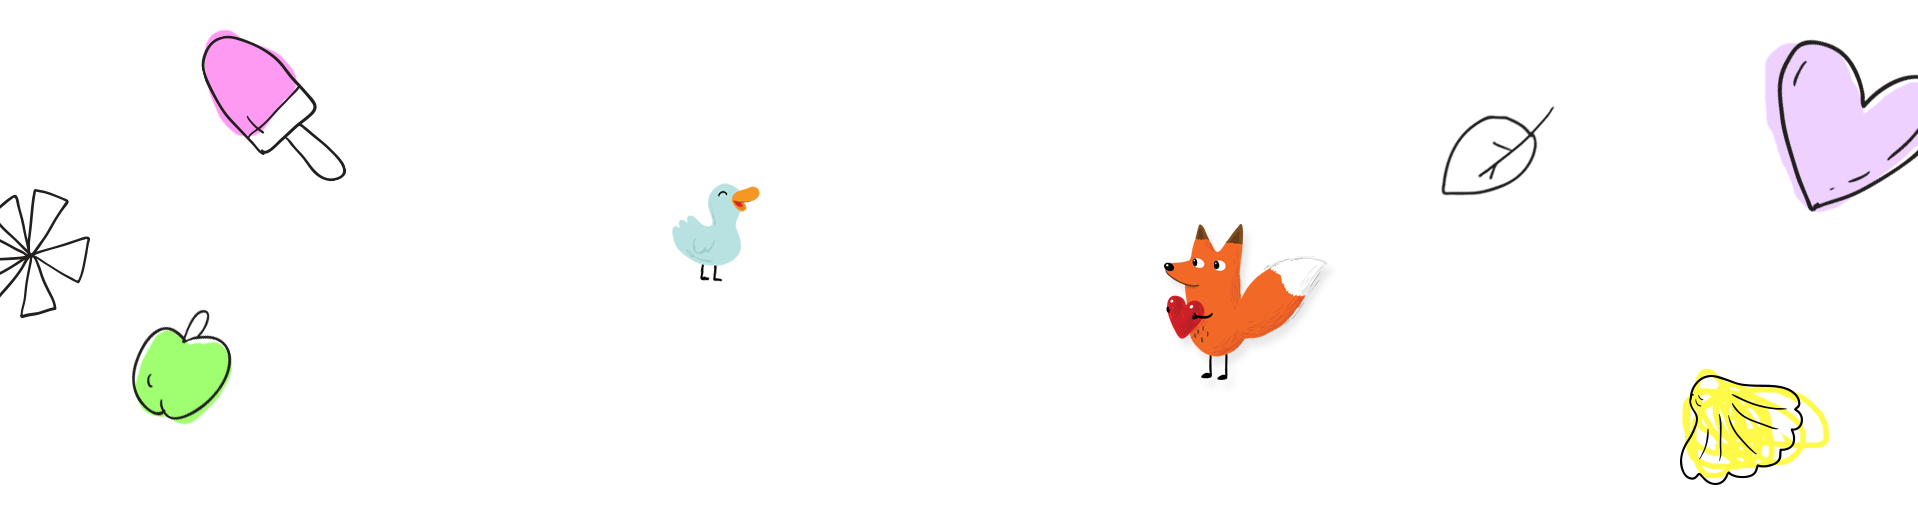
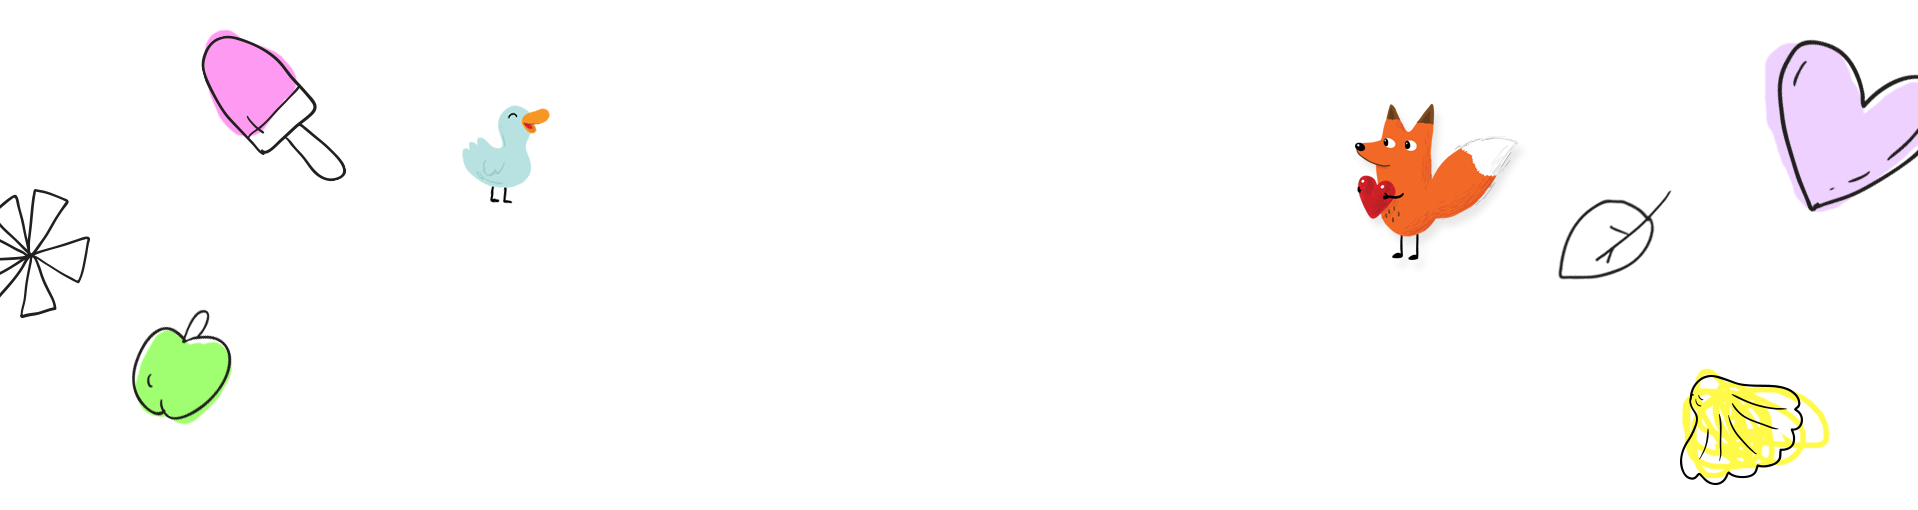
HP POSTER - fade obj gallery added

diff --git a/app/scss/hp-fullscreen.scss b/app/scss/hp-fullscreen.scss
@@ -58,8 +58,8 @@
       line-height: 52 px;
       font-weight: 600;
       border-radius: 12px;
-      background-color: rgba(255, 16, 130, 0.5);
-      box-shadow: 0px 2px 15px 2px rgba(255, 16, 130, 0.5);
+      // background-color: rgba(255, 16, 130, 0.5);
+      // box-shadow: 0px 2px 15px 2px rgba(255, 16, 130, 0.5);
     }
   }
   .fullscreen__object {
@@ -78,6 +78,9 @@
       background-position: center; 
       background-repeat: no-repeat; 
       background-size: contain;
+      margin-top : 0;
+      transition : margin 200ms ease-in-out;
+      z-index: 2;
     }
   }
 }
@@ -89,7 +92,7 @@
         max-width: 340px;
      }
      .fullscreen__object {
-        margin-right: -25px;
+        margin-right: 0px;
         margin-top: 100px;
         height: 300px;
         width : 300px;    
@@ -98,17 +101,20 @@
 }
 
 @media (max-width: 500px) {
+  .hp-grid {
+    margin-top : -60px;
+  }
   .poster-fullscreen {
     min-height: 310px;
     .fullscreen__logo {
-      margin-top: 40px;
+      margin-top: 20px;
       width: 104px;
       height: 73px;
       background: url('../img/hp/hp-logo_small.png') center top no-repeat;      
     }
     .fullscreen__content-container .fullscreen__title {
         font-size: 24px;
-        max-width: 200px;
+        max-width: 100px;
         margin-top: 14px;
      }
      .fullscreen__object {

diff --git a/app/scripts/hp-objects.js b/app/scripts/hp-objects.js
@@ -1,0 +1,37 @@
+
+var duck; 
+var fox;
+var card;
+var makerKit;
+
+var objects = [];
+var objectsTotal;
+
+var posterObjects;
+var delayInt;
+var showObjNum;
+
+$(document).ready(function(){
+
+	// SETTING VARS
+	duck = 'object__duck.png'; 
+	fox = 'object__fox.png';
+	card = 'object__card.png';
+	makerKit = 'object__maker-kit.png';
+	objects = [duck, fox, card, makerKit];
+	objectsTotal = objects.length;
+	posterObjects = $('.fullscreen__object--img');
+	showObjNum = 1;
+
+	setInterval('cycleImages()', 5000);
+
+});
+
+function cycleImages(){
+  posterObjects.css("margin-top" , '-10px' ).css('z-index' , '1').fadeOut(300, function(){
+  	posterObjects.css("background-image" , ['url("../img/hp/' + objects[showObjNum] + '")']);
+  	posterObjects.css('z-index' , '1').fadeIn(300).css("margin-top" , '0px' );
+  	showObjNum ++;
+  	showObjNum = showObjNum % objectsTotal;
+  })
+}
